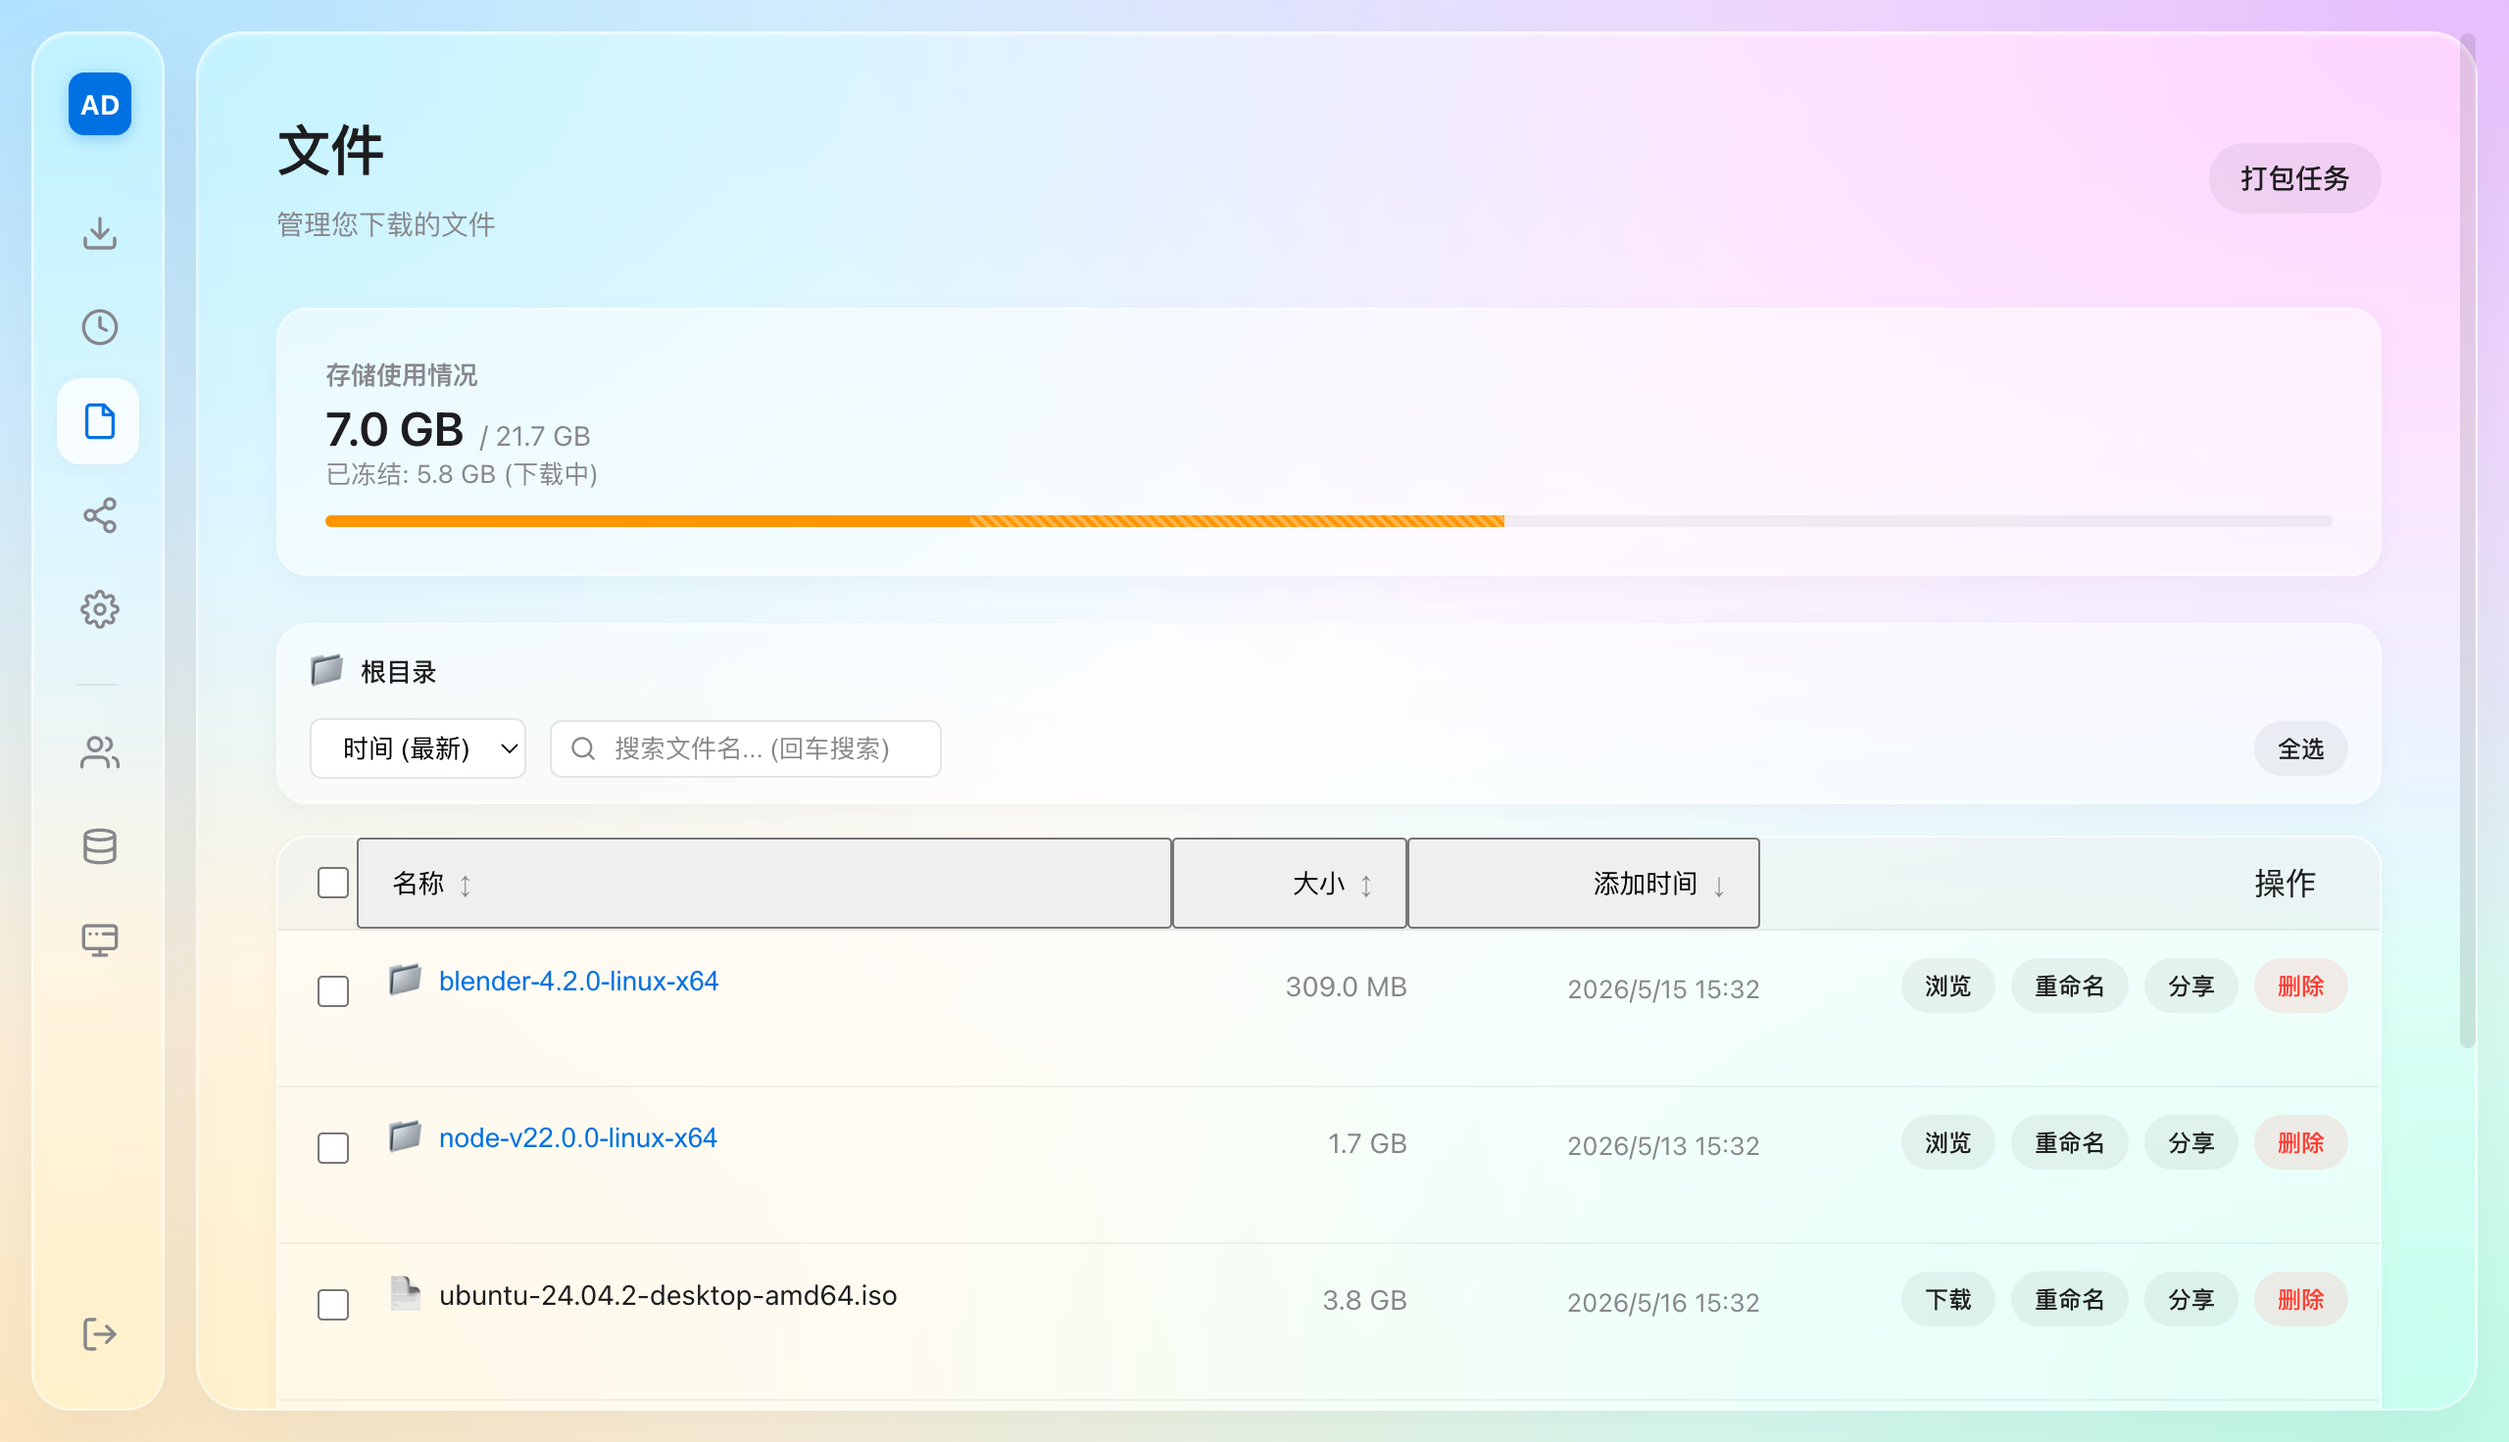
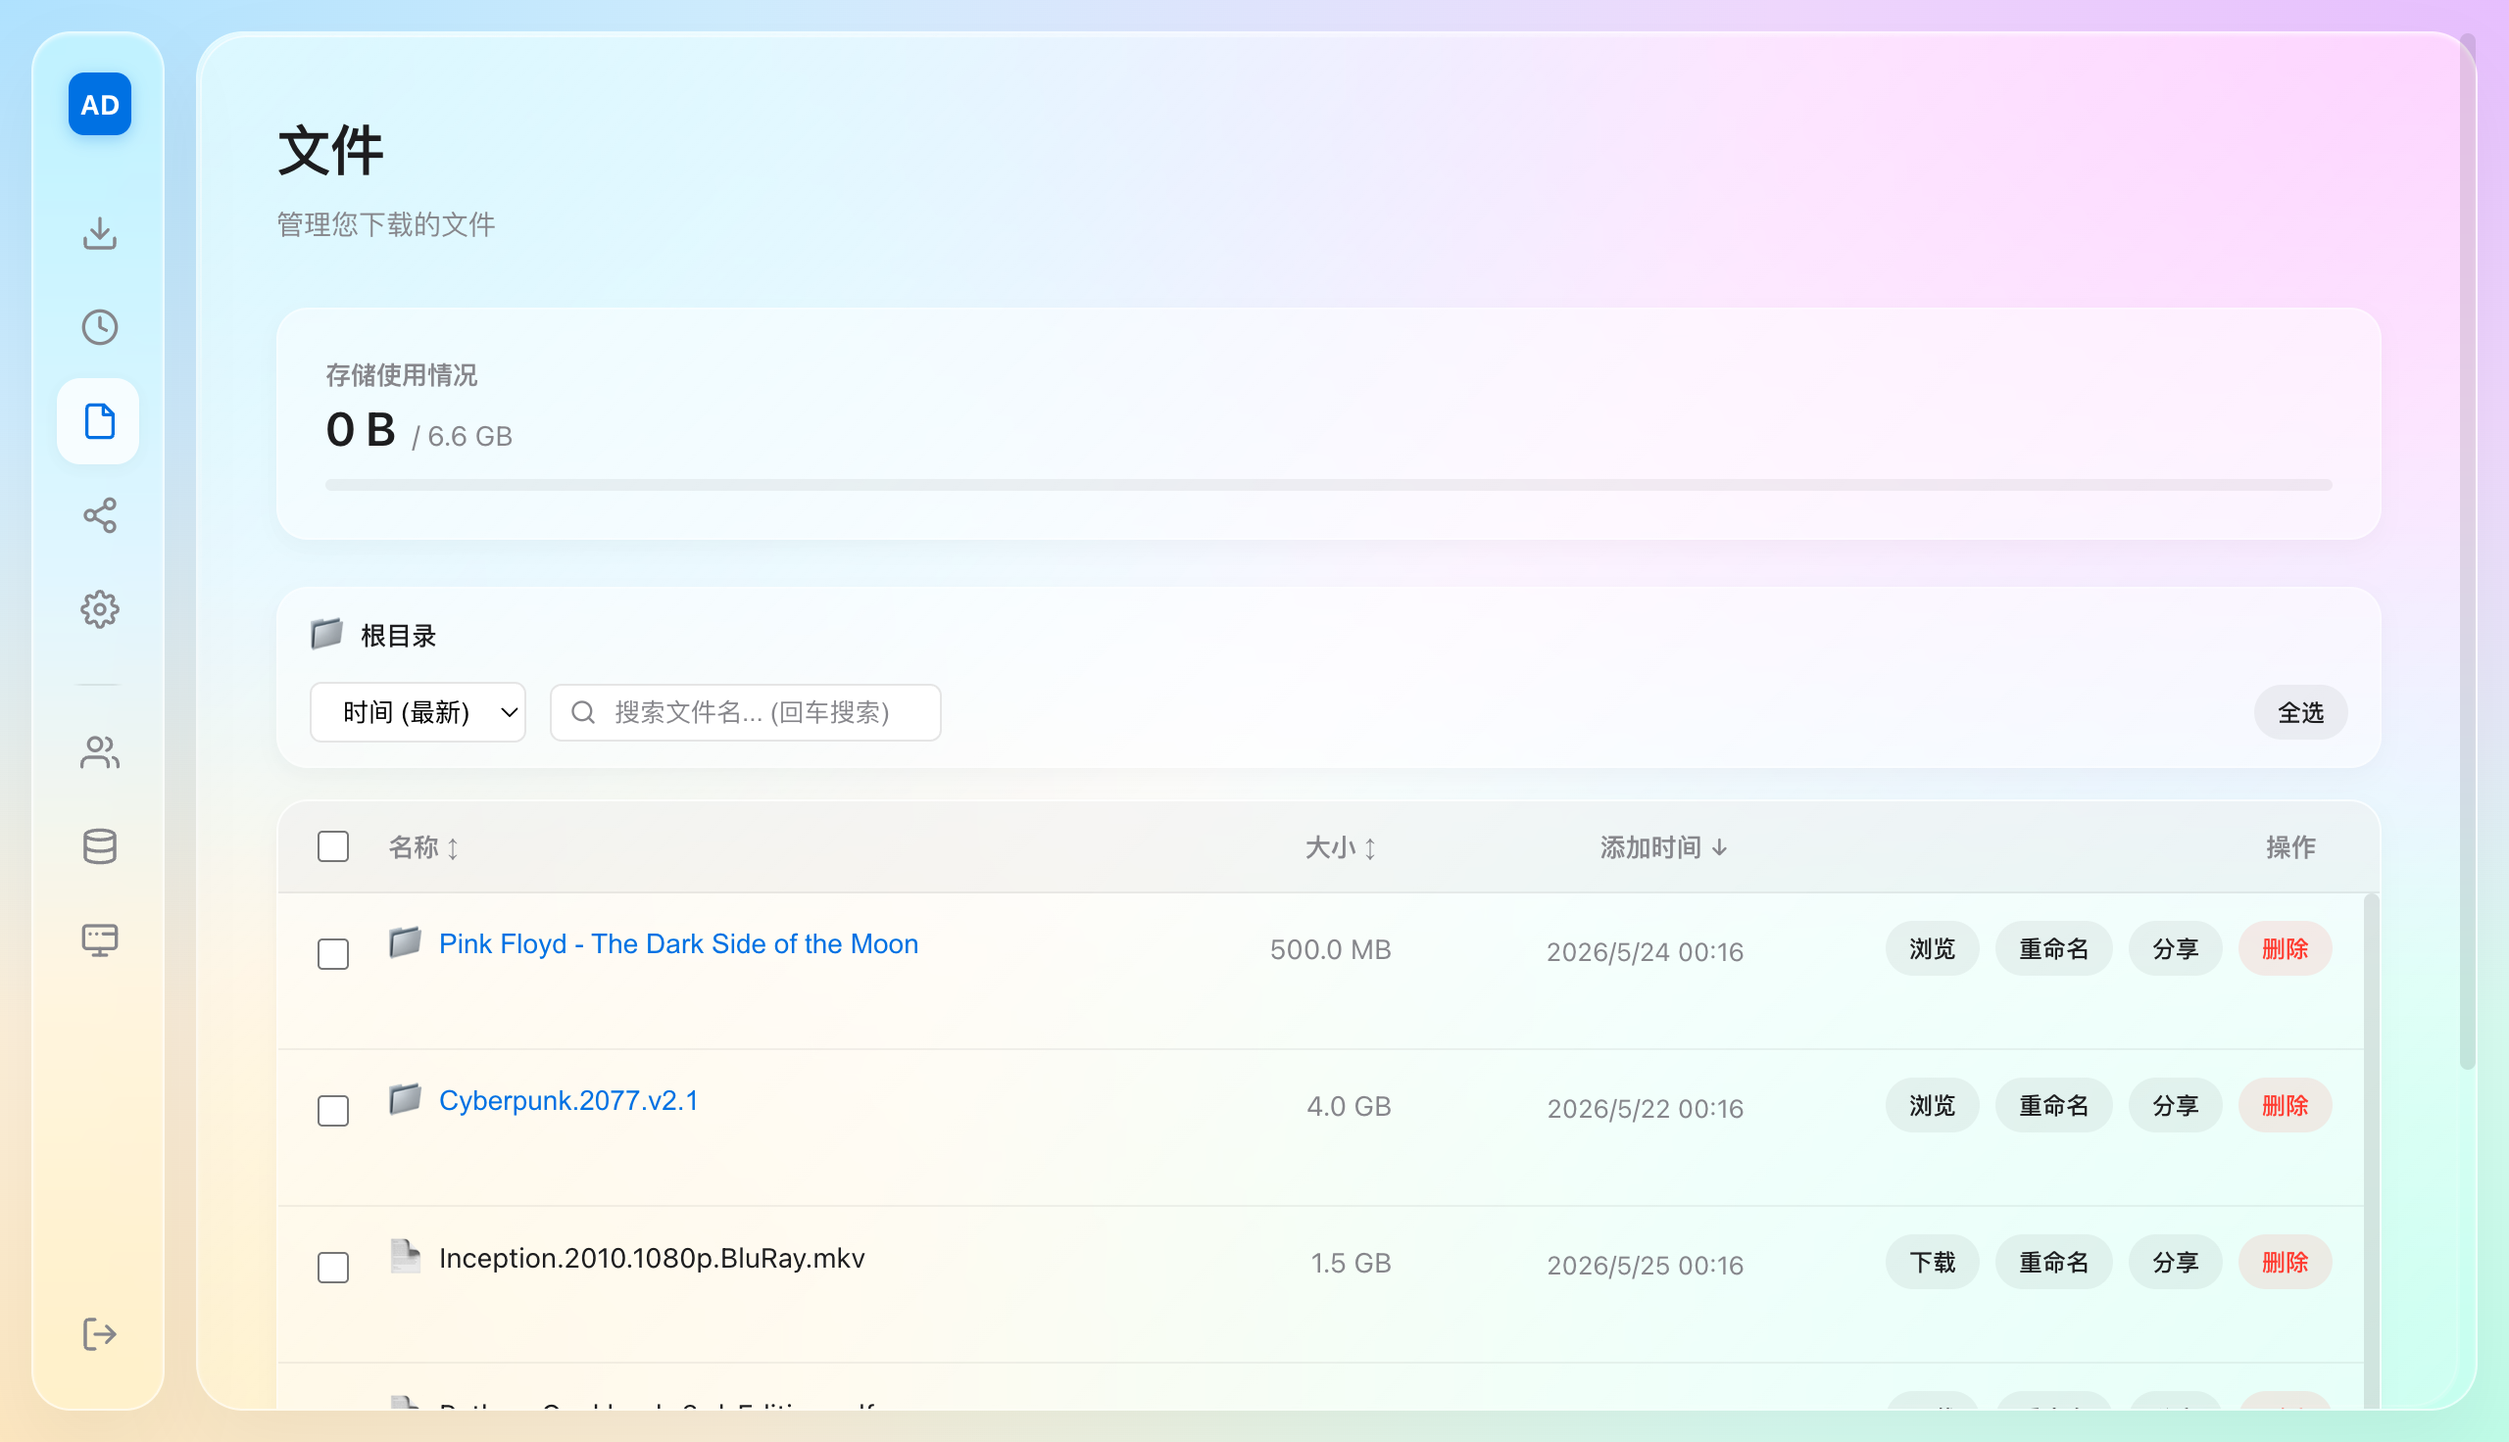
docs: update README and refresh all screenshots
- 更新功能描述：新增 BT 选择性下载、存储管理
- 更新使用流程和开发路由列表
- 重新截取四张界面预览图反映最新 UI

diff --git a/README.md b/README.md
@@ -15,15 +15,17 @@
 
 ## 功能亮点
 
-**下载管理** — 支持磁力链接、种子文件、HTTP/FTP，可批量添加。WebSocket 实时推送状态，任务完成/失败桌面通知提醒。
+**下载管理** — 支持磁力链接、种子文件、HTTP/FTP，可批量添加。BT 种子支持选择性下载（预览文件列表，勾选需要的文件）。WebSocket 实时推送状态，任务完成/失败桌面通知提醒。
 
-**文件管理** — 在线浏览、重命名、下载、删除。多文件打包下载（ZIP / TAR.ZST），存储空间用量实时展示。
+**文件管理** — 在线浏览、重命名、下载、删除。多文件打包下载（ZIP / TAR.ZST），支持目录结构浏览。
 
 **文件分享** — 生成分享链接，支持密码保护、过期时间、下载次数限制，随时可撤销。
 
+**存储管理** — 管理员可查看全局存储用量，按用户统计空间占用，配额管理一目了然。
+
 **多用户隔离** — 每用户独立任务列表和文件空间，管理员可分配配额。同一资源多人下载时自动复用，节省带宽。
 
-**任务历史** — 完整记录下载任务的完成、取消、失败状态，支持一键重试。
+**任务历史** — 完整记录下载任务的完成、取消、失败状态，支持一键重试和批量清理。
 
 **外部客户端** — 兼容 aria2 RPC 协议，可对接 AriaNg、Motrix 等客户端，每用户独立 RPC Secret。
 
@@ -75,7 +77,7 @@ docker run -d \
 ## 使用流程
 
 1. 管理员登录，修改默认密码
-2. 粘贴下载链接（或上传种子文件），创建任务
+2. 粘贴下载链接、上传种子文件（可选择性下载部分文件）或添加磁力链接
 3. 下载完成后，在文件页面浏览和管理
 4. 需要多人使用时，在用户管理创建新账号
 5. 需要分享文件时，生成分享链接发给对方
@@ -148,7 +150,7 @@ make dev-back     # API 后端（开发模式，自动重置 admin 密码为 123
 make dev-front    # 前端开发服务器（http://localhost:3000）
 ```
 
-开发态页面路径统一使用无后缀路由，例如 `http://localhost:3000/tasks`、`/files`、`/settings`。
+开发态页面路径统一使用无后缀路由，例如 `http://localhost:3000/tasks`、`/files`、`/shares`、`/history`、`/storage`、`/settings`。
 
 </details>
 
